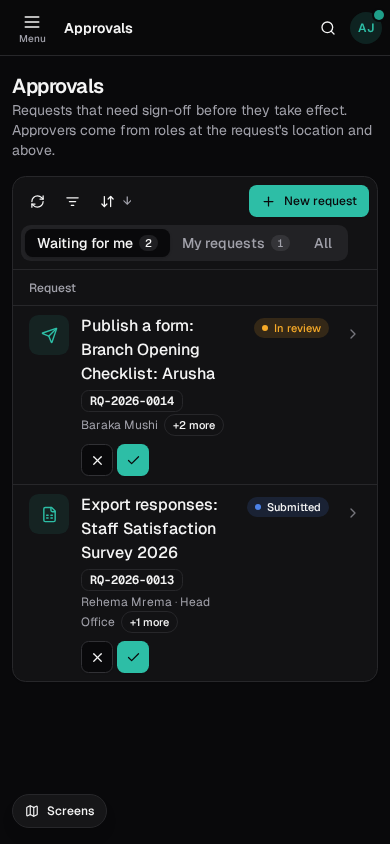
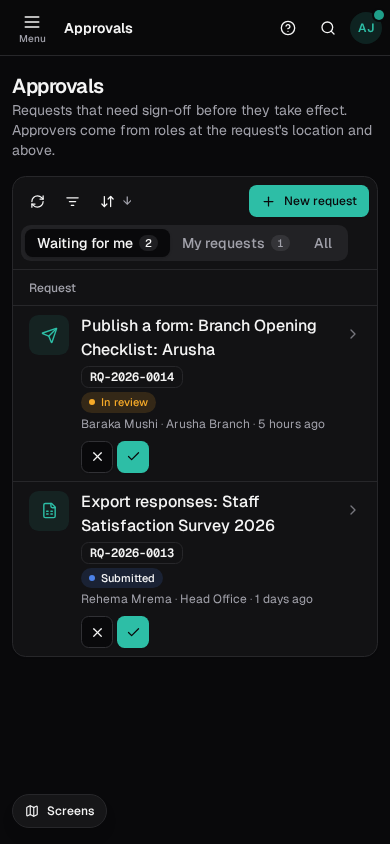
Kit 1.26.0
P107-P112 and the viewport fix. kit.json moves to 1.26.0 with the
decisions up to P112; the README and the prototype README template list
the registry and Fomu's hook file.

Regenerated the 24 screenshots and 3 help pictures these changes
alter (the RecordLink icon, the help page's article text, and the
lists that now stack at 390px); the others were shot again and match
apart from the clock and relative dates, so they are left as they are.

diff --git a/README.md b/README.md
@@ -11,7 +11,7 @@ A new product **starts from this kit and adds only its own modules.** It never r
 | `prototype/index.html` | The runnable prototype (open in a browser). The visual source of truth for the shell |
 | `prototype/src/product.js` | **The one file a product edits for branding:** name, tagline, icon, domain, city, storage key |
 | `prototype/src/parts_*.js`, `builder.html`, `assemble.py` | The shell's source, by area. `python3 prototype/src/assemble.py` rebuilds `index.html` and `docs/COMPONENTS.md` |
-| `docs/PLATFORM_DECISIONS.md` | P1–P102: the locked decisions, each with the decision it came from (P38 withdrawn); P51–P79 are the phone app; P80–P90 the code structure; P91–P92 the build guide, plan and tracker |
+| `docs/PLATFORM_DECISIONS.md` | P1–P112: the locked decisions, each with the decision it came from (P38 withdrawn); P51–P79 are the phone app; P80–P90 the code structure; P91–P92 the build guide, plan and tracker; P107–P112 came from Max Yield's build |
 | `docs/architecture/MODULES.md` | How a product's code is laid out, found and wired (P80–P90): module folders, manifests, loading, services, actions, links, child tabs |
 | `docs/guide/index.html` | **The build guide**: how a product is built on this kit, from an empty folder, explained for a beginner (P91). Source: `docs/guide/chapters/*.md`, built by `python3 tools/guide/build.py` |
 | `docs/help/index.html` | **The user guide** for the people using a product: how to do each task, with marked pictures (P98). Source: `docs/help/articles/`, built by `node tools/help/build.js`. The kit's core articles; products add theirs. |

diff --git a/templates/PROTOTYPE_README.md b/templates/PROTOTYPE_README.md
@@ -26,6 +26,7 @@
 | `parts_appr.js` | Approvals: workflows, routing, capacity rule, notifications, inbox, request page, editor, delegations, notification settings |
 | `parts_resp.js` | Results: summary charts, individual responses, filters, export, void/reset |
 | `parts_app.js` | Respondent: OTP, rules, timer, violations, gates, Prototype states panel |
+| `parts_fomu.js` | The example product's hooks into core parts: what its approvals do and where their records are picked from (P107, P108) |
 | `builder.html` | The builder (Questions + Settings), plus the base page: theme tokens, Tailwind config, fonts. The assembly starts from it |
 | `assemble.py` | Stitches everything into `index.html`, and holds the glue: the global store `G` (route, theme, org), `nav()`, the curtain, the Screens pill and app mounting. Its paths point to the original workspace |
 
